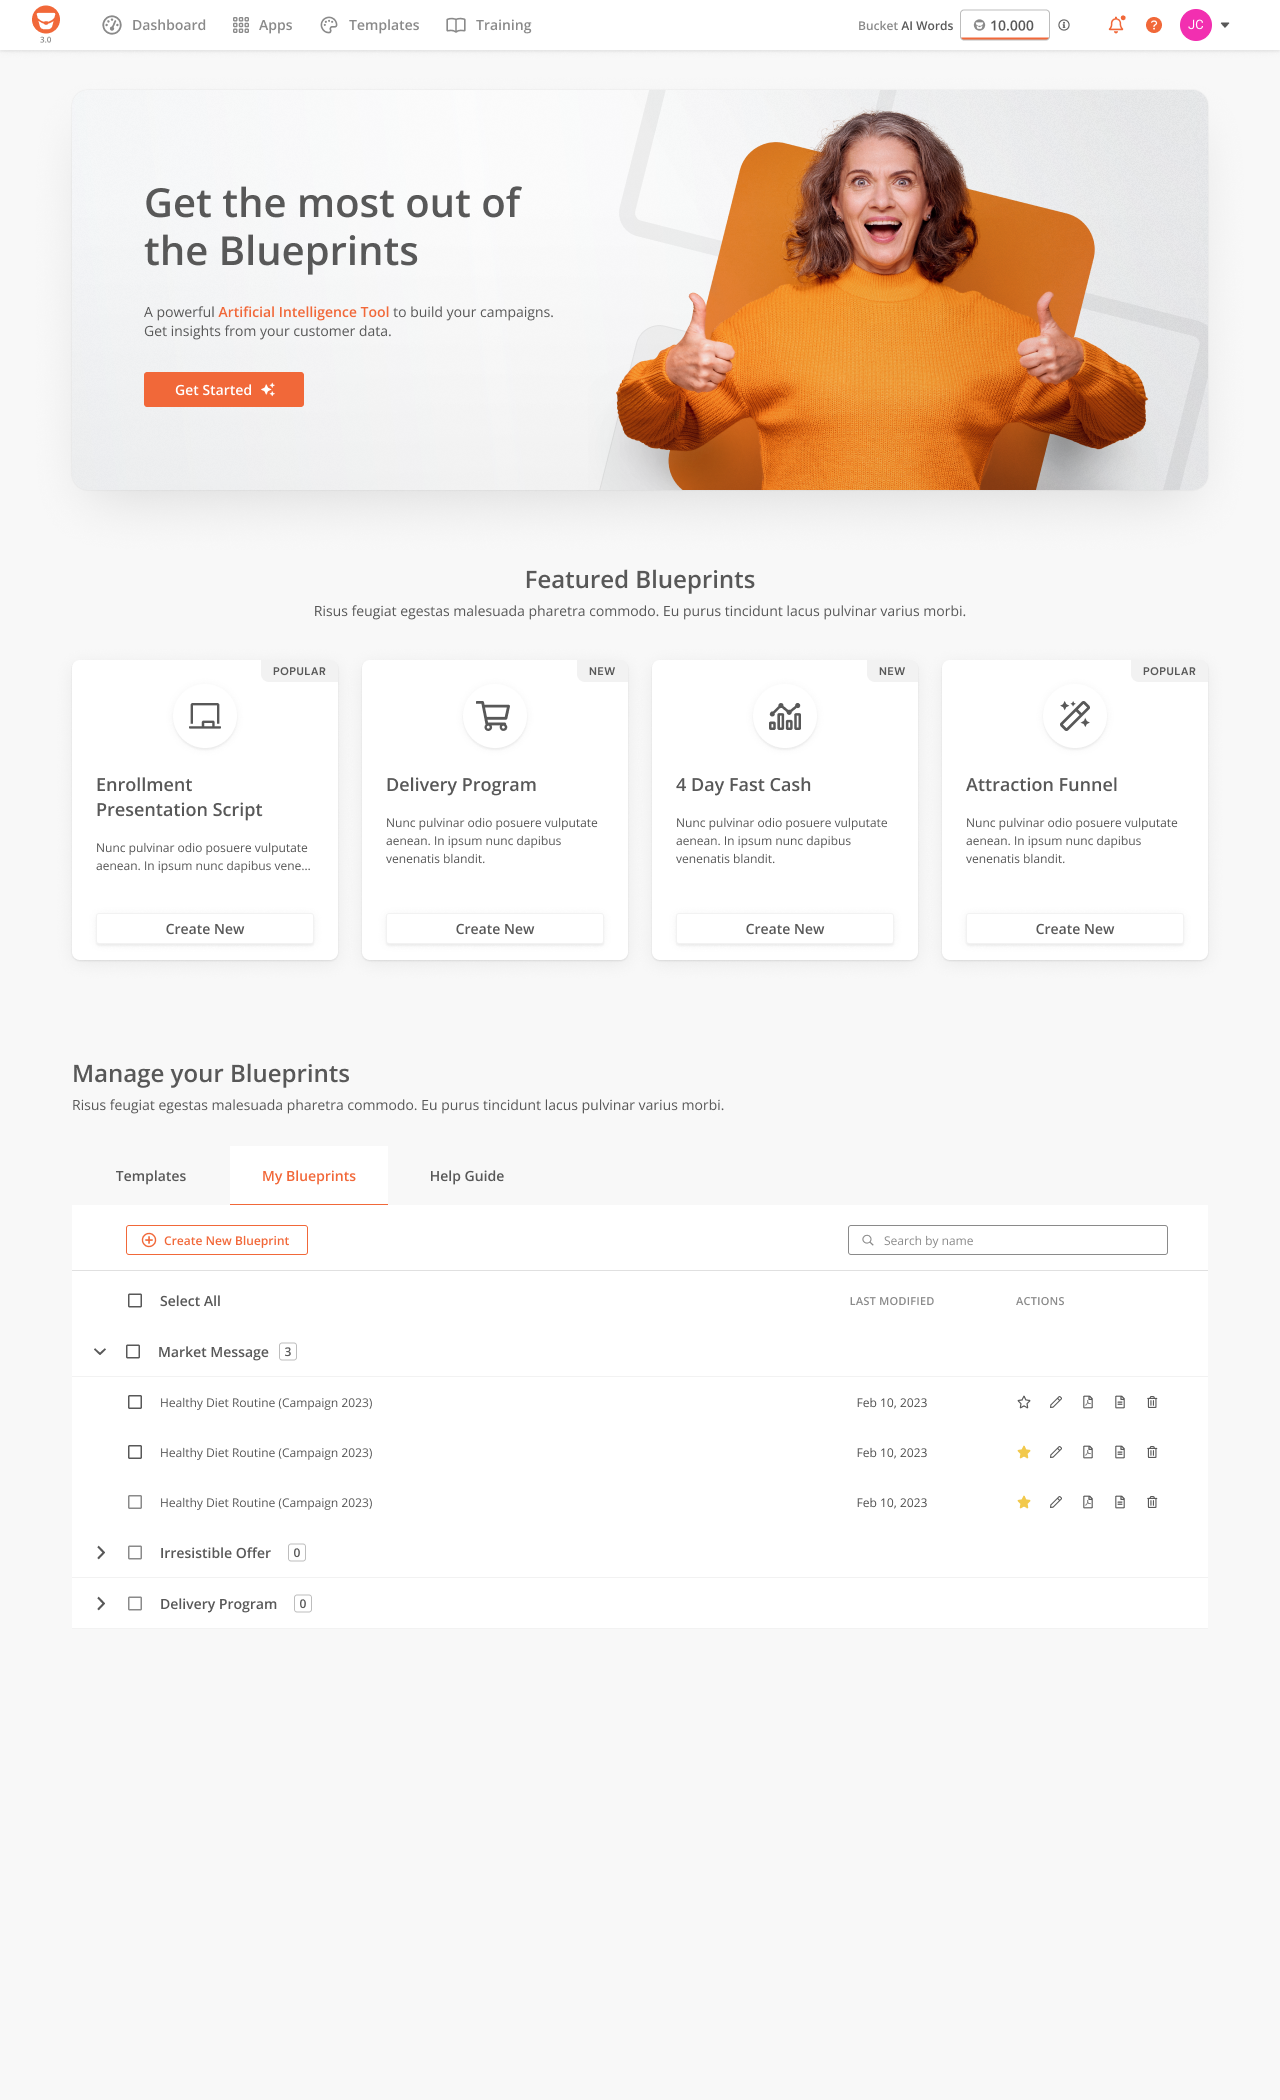
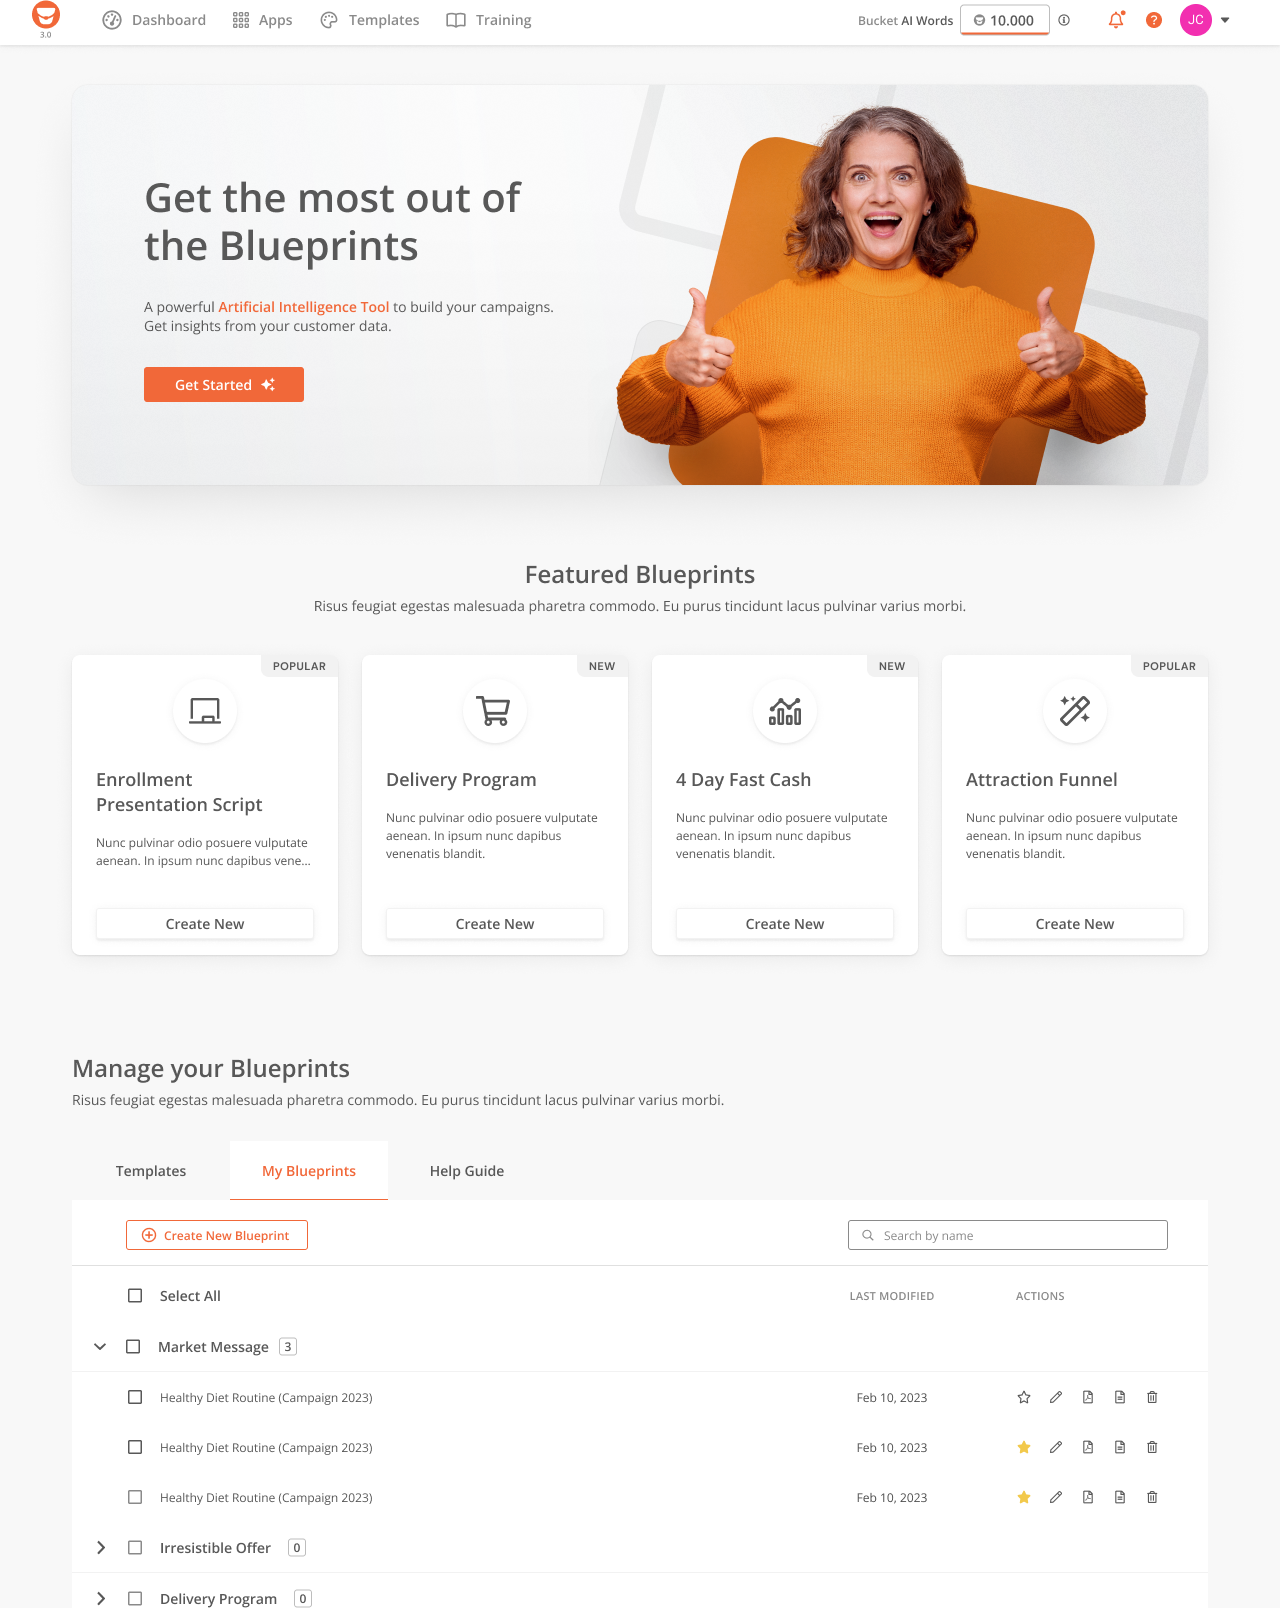
Fix date coherence + visual polish from live review
- Dates: CodeBranch/Nvidia contract ended Apr 2026 (no more overlapping
  'Present' roles) — timeline, Nvidia + YMA case headers, durations -> 10 months
- Removed low-res raster client logos from case heroes (kept text attribution)
- Fixed clipped 'HIGHEST/CRITICAL FRICTION' pills in the user-flow SVG (centered)
- Cropped 492px of trailing white from the Bucket dashboard screenshot
- Cache-bust the two edited assets so the fixes show without a hard refresh

diff --git a/index.html b/index.html
@@ -326,7 +326,6 @@
     <section id="case-solving-ai" class="case-hero">
       <div class="case-hero__inner">
         <a href="#work" class="case-hero__back">&larr; Back to all work</a>
-        <img src="assets/solving-ai/Logo.svg" alt="Solving AI" class="case-hero__logo" width="147" height="38" loading="lazy" decoding="async">
         <p class="case-hero__company">Solving AI &mdash; Jun 2024 &ndash; Jun 2025</p>
         <h2 class="case-hero__title">Building a Validation Culture for AI Products</h2>
         <p class="case-hero__subtitle">How I established evidence-based design practices, built a scalable design system, and improved task comprehension by ~80% through systematic Maze A/B testing.</p>
@@ -401,7 +400,7 @@
     <div class="case-image-grid fade-in-stagger">
       <div class="case-image" role="button" tabindex="0">
         <div class="case-image__container case-image__container--transparent">
-          <img src="assets/solving-ai/user-flow-dropoff.svg" alt="User flow analysis showing drop-off points in the original AI workflow — highest friction at configuration (30%) and results interpretation (20%)" class="case-image__diagram" width="1200" height="530" loading="lazy" decoding="async">
+          <img src="assets/solving-ai/user-flow-dropoff.svg?v=2" alt="User flow analysis showing drop-off points in the original AI workflow — highest friction at configuration (30%) and results interpretation (20%)" class="case-image__diagram" width="1200" height="530" loading="lazy" decoding="async">
         </div>
         <p class="case-image__caption">User flow analysis: drop-off points identified through session recordings and Maze task data</p>
       </div>
@@ -541,14 +540,13 @@
     <section id="case-nvidia" class="case-hero">
       <div class="case-hero__inner">
         <a href="#work" class="case-hero__back">&larr; Back to all work</a>
-        <img src="assets/nvidia/Logo.png" alt="Nvidia" class="case-hero__logo" width="143" height="81" loading="lazy" decoding="async">
 
         <div class="nda-badge">
           <svg aria-hidden="true" viewBox="0 0 24 24" fill="none" stroke="currentColor" stroke-width="2"><rect x="3" y="11" width="18" height="11" rx="2" ry="2"/><path d="M7 11V7a5 5 0 0 1 10 0v4"/></svg>
           Under NDA &mdash; proprietary screens withheld; redacted process work shown
         </div>
 
-        <p class="case-hero__company">CodeBranch &mdash; Client: Nvidia &mdash; Jun 2025 &ndash; Present</p>
+        <p class="case-hero__company">CodeBranch &mdash; Client: Nvidia &mdash; Jun 2025 &ndash; Apr 2026 (contract)</p>
         <h2 class="case-hero__title">Redesigning Decision-Making for a Global Supply Chain</h2>
         <p class="case-hero__subtitle">Leading the UX transformation of an enterprise supply chain intelligence platform &mdash; from a flat interface to a structured SAP Fiori dashboard, with a ~90% task-completion gain measured in internal usability testing.</p>
 
@@ -559,7 +557,7 @@
           </div>
           <div class="case-meta__item">
             <span class="case-meta__label">Duration</span>
-            <span class="case-meta__value">Ongoing</span>
+            <span class="case-meta__value">10 months</span>
           </div>
           <div class="case-meta__item">
             <span class="case-meta__label">Team</span>
@@ -684,8 +682,7 @@
     <section id="case-yma" class="case-hero">
       <div class="case-hero__inner">
         <a href="#work" class="case-hero__back">&larr; Back to all work</a>
-        <img src="assets/yma/Logomark.png" alt="YMA" class="case-hero__logo" width="96" height="46" loading="lazy" decoding="async">
-        <p class="case-hero__company">CodeBranch &mdash; Product: YMA / Smartel &mdash; Jun 2025 &ndash; Present (concurrent with the Nvidia platform)</p>
+        <p class="case-hero__company">CodeBranch &mdash; Product: YMA / Smartel &mdash; Jun 2025 &ndash; Apr 2026 (contract)</p>
         <h2 class="case-hero__title">Designing an AI Ecosystem from Zero to One</h2>
         <p class="case-hero__subtitle">Establishing the foundational product experience for a computer vision AI platform &mdash; mobile-first design, real-time feedback patterns, and a design system scaled by a growing team.</p>
 
@@ -696,7 +693,7 @@
           </div>
           <div class="case-meta__item">
             <span class="case-meta__label">Duration</span>
-            <span class="case-meta__value">Ongoing</span>
+            <span class="case-meta__value">10 months</span>
           </div>
           <div class="case-meta__item">
             <span class="case-meta__label">Team</span>
@@ -879,7 +876,6 @@
     <section id="case-bucket" class="case-hero">
       <div class="case-hero__inner">
         <a href="#work" class="case-hero__back">&larr; Back to all work</a>
-        <img src="assets/bucket/Brand.png" alt="Bucket.io" class="case-hero__logo case-hero__logo--lg" width="780" height="206" loading="lazy" decoding="async">
         <p class="case-hero__company">Ideaware &mdash; Client: Bucket.io &mdash; Sep 2023 &ndash; May 2024</p>
         <h2 class="case-hero__title">AI-Powered Blueprint Generation</h2>
         <p class="case-hero__subtitle">Redesigning a complex AI configuration process into an accessible guided funnel &mdash; validated through interactive prototyping before engineering investment.</p>
@@ -910,8 +906,8 @@
       <div class="case-image" role="button" tabindex="0">
         <div class="case-image__container case-image__container--contained">
           <picture>
-            <source srcset="assets/bucket/product-dashboard.webp" type="image/webp">
-            <img src="assets/bucket/product-dashboard.png" alt="Bucket.io blueprint dashboard — AI-powered content generation platform with featured templates and blueprint management" class="case-image__screenshot" width="1280" height="2100" loading="lazy" decoding="async">
+            <source srcset="assets/bucket/product-dashboard.webp?v=2" type="image/webp">
+            <img src="assets/bucket/product-dashboard.png?v=2" alt="Bucket.io blueprint dashboard — AI-powered content generation platform with featured templates and blueprint management" class="case-image__screenshot" width="1280" height="1608" loading="lazy" decoding="async">
           </picture>
         </div>
         <p class="case-image__caption">Bucket.io blueprint dashboard — the AI-powered content generation platform I redesigned</p>
@@ -1296,9 +1292,9 @@
                 <p class="timeline__desc">Leading design across a mobile-first, HIPAA-compliant EHR and practice-management platform serving 3,500+ aesthetic practices and medical spas. AI-native workflows, design systems, and KPI-tied user research &mdash; aligning product, engineering, and clinical users.</p>
               </div>
               <div class="timeline__item">
-                <span class="timeline__date">Jun 2025 &ndash; Present</span>
+                <span class="timeline__date">Jun 2025 &ndash; Apr 2026</span>
                 <span class="timeline__role">Senior Product Designer &amp; Lead + Product Owner</span>
-                <span class="timeline__company">CodeBranch &middot; Remote (USA/LatAm)</span>
+                <span class="timeline__company">CodeBranch &middot; Contract &middot; Remote (USA/LatAm)</span>
                 <p class="timeline__desc">Product Owner on the design side &mdash; user stories, delivery guidance, QA oversight. Led UX for the Nvidia Supply Chain AI and YMA/Smartel ecosystem; collaborated with 5+ engineers including AI/ML specialists.</p>
               </div>
               <div class="timeline__item">
